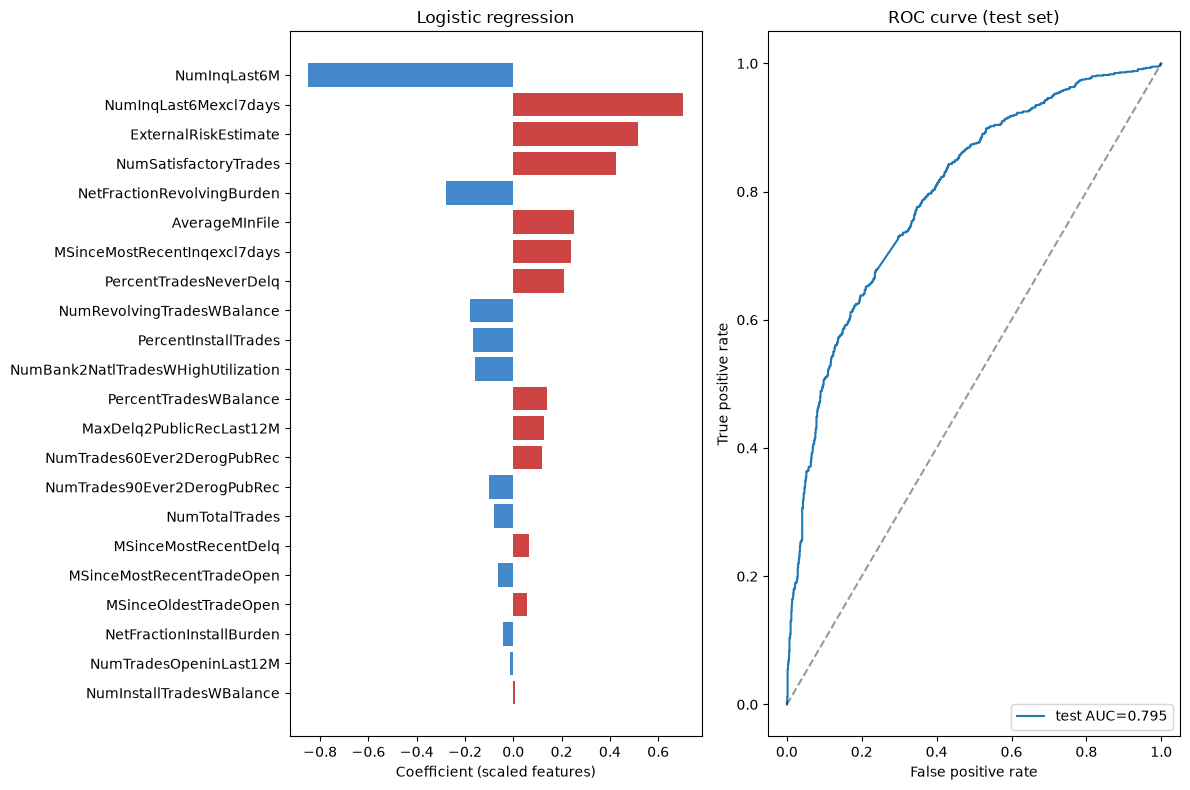
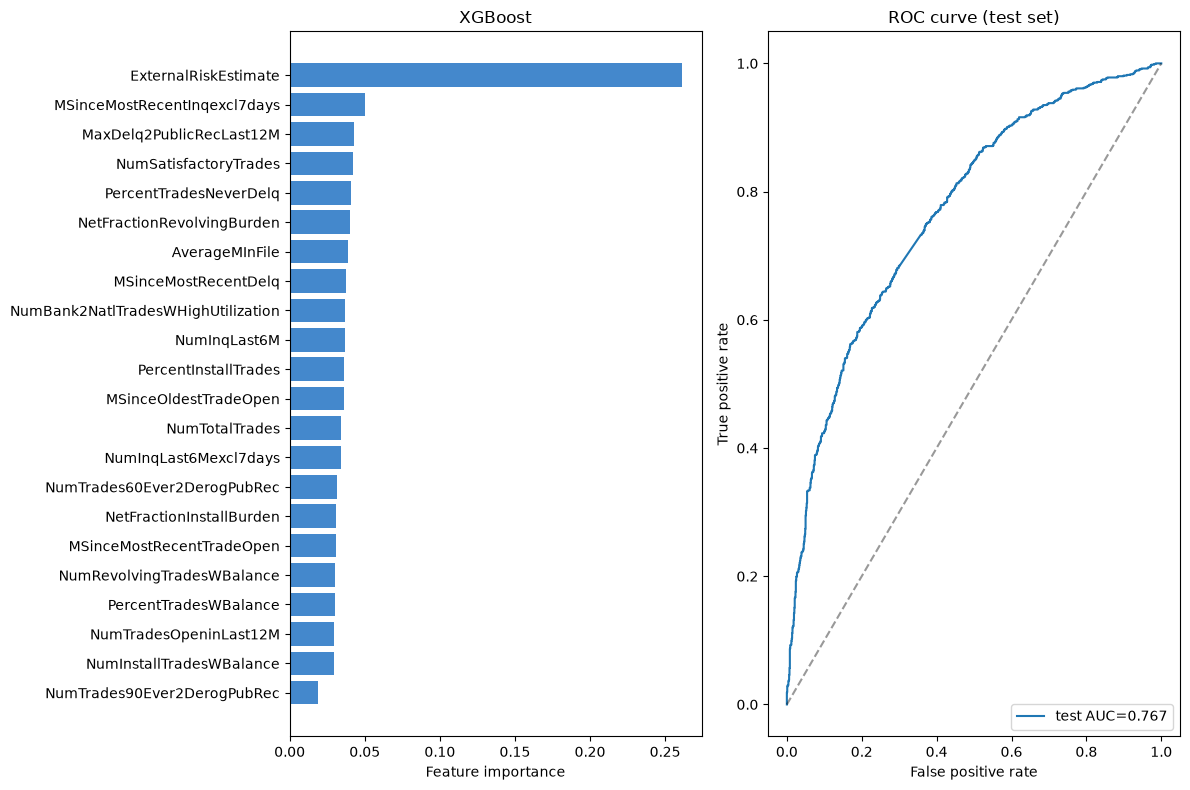
Serve probabilities by switching the tutorial model to XGBoost
The prebuilt sklearn container calls .predict(), which returns 0/1 labels
for a classifier, so Sampled Shapley attributed a label instead of a
probability. The prebuilt xgboost-cpu.2-1 container serves Booster.predict(),
which returns the probability for binary:logistic.

- train(): fit XGBClassifier, save model.bst
- explain(): use xgboost-cpu.2-1 and a new model name
- document that RiskPerformance 1 = good credit in instances.csv
- README: Step 2/4/5 text, new step4-roc.png

diff --git a/vertex-batch-explainability/batch_explain.py b/vertex-batch-explainability/batch_explain.py
@@ -9,14 +9,10 @@ import tempfile
 from math import isnan
 
 import google.auth
-import joblib
+import xgboost as xgb
 from google.cloud import aiplatform, bigquery, storage
-from sklearn.impute import SimpleImputer
-from sklearn.linear_model import LogisticRegression
 from sklearn.metrics import roc_auc_score
 from sklearn.model_selection import train_test_split
-from sklearn.pipeline import Pipeline
-from sklearn.preprocessing import StandardScaler
 
 # 22 credit-bureau features from the FICO HELOC dataset (OpenML 45023).
 FEATURES = [
@@ -43,11 +39,11 @@ FEATURES = [
     "NumBank2NatlTradesWHighUtilization",
     "PercentTradesWBalance",
 ]
-TARGET = "RiskPerformance"  # 1 = bad (90+ days past due), 0 = good
+TARGET = "RiskPerformance"  # 1 = good credit, 0 = bad (90+ days past due) in instances.csv
 # Blank cells in instances.csv; FICO raw data also uses -7/-8/-9 (see openml.org/d/45023).
 MISSING = {"", "-7", "-8", "-9"}
-CONTAINER = "us-docker.pkg.dev/vertex-ai/prediction/sklearn-cpu.1-6:latest"
-MODEL_NAME = "heloc-batch-explain"
+CONTAINER = "us-docker.pkg.dev/vertex-ai/prediction/xgboost-cpu.2-1:latest"
+MODEL_NAME = "heloc-batch-explain-xgb"
 DATASET = "ml_explainability"
 INPUT_TABLE = "heloc_batch_input"
 OUTPUT_TABLE = "heloc_batch_explanations"
@@ -97,18 +93,18 @@ def load(args) -> None:
 
 
 def train(args) -> None:
-    """Step 4 — fit logistic regression and upload model.joblib to GCS."""
+    """Step 4 — fit XGBoost (binary:logistic) and upload model.bst to GCS."""
     rows = read_csv(args.instances)
     X = [[parse_float(r[n]) for n in FEATURES] for r in rows]  # feature matrix
-    y = [int(r[TARGET].strip() == "1") for r in rows]  # 1 = bad, 0 = good
+    y = [int(r[TARGET].strip() == "1") for r in rows]  # 1 = good, 0 = bad
     X_train, X_test, y_train, y_test = train_test_split(
         X, y, test_size=0.2, random_state=42, stratify=y
     )
-    model = Pipeline([
-        ("imputer", SimpleImputer(strategy="median")),  # fill NaN from blank cells
-        ("scaler", StandardScaler()),
-        ("clf", LogisticRegression(max_iter=1000, class_weight="balanced")),
-    ]).fit(X_train, y_train)
+    # Vertex's xgboost container serves Booster.predict(), which returns P(y=1) for binary:logistic.
+    model = xgb.XGBClassifier(
+        objective="binary:logistic",  # NaN is handled natively, no imputer needed
+        scale_pos_weight=y_train.count(0) / y_train.count(1),  # balance classes
+    ).fit(X_train, y_train)
     y_score = model.predict_proba(X_test)[:, 1]
     test_auc = roc_auc_score(y_test, y_score)
     train_auc = roc_auc_score(y_train, model.predict_proba(X_train)[:, 1])
@@ -117,25 +113,25 @@ def train(args) -> None:
     bucket, uri = model_uri(args.bucket_uri)
     prefix = uri.removeprefix(f"gs://{bucket}/").rstrip("/")
     with tempfile.TemporaryDirectory() as tmp:
-        model_path = os.path.join(tmp, "model.joblib")
-        joblib.dump(model, model_path)
+        model_path = os.path.join(tmp, "model.bst")
+        model.get_booster().save_model(model_path)
         bkt = storage.Client().bucket(bucket)
-        bkt.blob(f"{prefix}/model.joblib").upload_from_filename(model_path)
+        bkt.blob(f"{prefix}/model.bst").upload_from_filename(model_path)
 
         import matplotlib
         matplotlib.use("Agg")
         import matplotlib.pyplot as plt
         from sklearn.metrics import roc_curve
 
-        coefs = model.named_steps["clf"].coef_[0]
-        order = sorted(range(len(FEATURES)), key=lambda i: abs(coefs[i]), reverse=True)
+        importances = model.feature_importances_
+        order = sorted(range(len(FEATURES)), key=lambda i: importances[i], reverse=True)
         names = [FEATURES[i] for i in order]
-        values = [coefs[i] for i in order]
+        values = [importances[i] for i in order]
 
         fig, (ax_coef, ax_roc) = plt.subplots(1, 2, figsize=(12, 8))
-        ax_coef.barh(names, values, color=["#c44" if v > 0 else "#48c" for v in values])
-        ax_coef.set_xlabel("Coefficient (scaled features)")
-        ax_coef.set_title("Logistic regression")
+        ax_coef.barh(names, values, color="#48c")
+        ax_coef.set_xlabel("Feature importance")
+        ax_coef.set_title("XGBoost")
         ax_coef.invert_yaxis()
 
         fpr, tpr, _ = roc_curve(y_test, y_score)
@@ -151,7 +147,7 @@ def train(args) -> None:
         fig.savefig(plot_path, dpi=100, bbox_inches="tight")
         plt.close(fig)
         bkt.blob(f"{prefix}/train_metrics.png").upload_from_filename(plot_path)
-    print(f"[train] uploaded {uri}model.joblib and train_metrics.png", flush=True)
+    print(f"[train] uploaded {uri}model.bst and train_metrics.png", flush=True)
 
 
 def explain(args) -> None:

diff --git a/vertex-batch-explainability/README.md b/vertex-batch-explainability/README.md
@@ -1,6 +1,6 @@
-# <img width="40" alt="image" src="docs/assets/gcp.png"> GCP ML Project: Explaining Loan Default Risk Predictions with Vertex AI, BigQuery and scikit-learn 🔍
+# <img width="40" alt="image" src="docs/assets/gcp.png"> GCP ML Project: Explaining Loan Default Risk Predictions with Vertex AI, BigQuery and XGBoost 🔍
 
-This GCP ML project focuses on **explaining loan default risk predictions** on Vertex AI. You train a scikit-learn classifier on FICO consumer credit data, register it on Vertex, and run one batch job that returns each borrower's predicted default probability plus per-feature attributions in BigQuery.
+This GCP ML project focuses on **explaining loan default risk predictions** on Vertex AI. You train an XGBoost classifier on FICO consumer credit data, register it on Vertex, and run one batch job that returns each borrower's predicted probability (of `RiskPerformance` = 1, good credit) plus per-feature attributions in BigQuery.
 
 - <img width="18" alt="image" src="docs/assets/gcs.png"> GCS is used to store the sample input data
 - <img width="18" alt="image" src="docs/assets/bigquery.png"> BigQuery holds the batch input rows and the explanation output table
@@ -23,11 +23,11 @@ Upload the provided CSV file to your designated Google Cloud Storage (GCS) bucke
 
 # <img width="30" alt="image" src="docs/assets/gcp.png"> Step 2 — Set up cloud shell
 
-Set the project and install scikit-learn and the Vertex AI SDK.
+Set the project and install XGBoost, scikit-learn and the Vertex AI SDK.
 
 👨💻 `gcloud config set project your-project-id`
 
-👨💻 `pip install google-cloud-aiplatform 'scikit-learn==1.6.*' matplotlib`
+👨💻 `pip install google-cloud-aiplatform 'scikit-learn==1.6.*' 'xgboost==2.1.*' matplotlib`
 
 ![Cloud shell install](docs/assets/step2-install.png)
 
@@ -49,19 +49,21 @@ You should see 10,000 rows from `instances.csv`.
 
 # <img width="30" alt="image" src="docs/assets/vertex-ai.png"> Step 4 — Train model
 
-The `train()` method in `batch_explain.py` fits a scikit-learn **logistic regression** on `instances.csv`. We predict `probability` — the chance the borrower ends up 90+ days past due (`RiskPerformance` = Bad).
+The `train()` method in `batch_explain.py` fits an **XGBoost** classifier (`binary:logistic`) on `instances.csv`. We predict `probability` — the chance that `RiskPerformance` = 1. In this CSV `1` is good credit (that group has the higher average `ExternalRiskEstimate`) and `0` is bad (90+ days past due), so a low probability means higher default risk.
 
-The `train` step fits the pipeline and uploads `model.joblib` and `train_metrics.png` to your bucket.
+We use XGBoost because Vertex's prebuilt XGBoost container serves `Booster.predict()`, which returns that probability. The prebuilt scikit-learn container calls `.predict()` instead, which returns a 0/1 class label for a classifier, so the explanations would attribute a label rather than a probability.
+
+The `train` step fits the model and uploads `model.bst` and `train_metrics.png` to your bucket.
 
 👨💻 `python batch_explain.py train --bucket-uri gs://your-bucket/vertex-batch-explain`
 
-Confirm `model.joblib` landed in `gs://your-bucket/vertex-batch-explain/models/`.
+Confirm `model.bst` landed in `gs://your-bucket/vertex-batch-explain/models/`.
 
-![model.joblib in GCS](docs/assets/step4-train.png)
+![model.bst in GCS](docs/assets/step4-train.png)
 
-Check the printed train/test ROC AUC in the terminal. The script also saves `train_metrics.png` to the same folder — logistic regression **coefficients** on the left (which features push risk up or down) and the test-set **ROC curve** on the right.
+Check the printed train/test ROC AUC in the terminal. The script also saves `train_metrics.png` to the same folder — XGBoost **feature importances** on the left (which features the model relies on most) and the test-set **ROC curve** on the right.
 
-![Logistic regression coefficients and ROC curve](docs/assets/step4-roc.png)
+![XGBoost feature importances and ROC curve](docs/assets/step4-roc.png)
 
 # <img width="30" alt="image" src="docs/assets/vertex-ai.png"> Step 5 — Run batch explanation job
 
@@ -71,9 +73,9 @@ The `explain` step registers your model on Vertex AI, then starts a batch job th
 
 ```python
 model = aiplatform.Model.upload(
-    display_name="heloc-batch-explain",  # name shown in the Vertex AI console
-    artifact_uri=uri,  # GCS path to model.joblib from Step 4
-    serving_container_image_uri="us-docker.pkg.dev/vertex-ai/prediction/sklearn-cpu.1-6:latest",
+    display_name="heloc-batch-explain-xgb",  # name shown in the Vertex AI console
+    artifact_uri=uri,  # GCS path to model.bst from Step 4
+    serving_container_image_uri="us-docker.pkg.dev/vertex-ai/prediction/xgboost-cpu.2-1:latest",
     explanation_parameters=aiplatform.explain.ExplanationParameters(
         {"sampled_shapley_attribution": {"path_count": 10}},  # Sampled Shapley: 10 permutations per row
     ),
@@ -84,7 +86,7 @@ model = aiplatform.Model.upload(
 )
 ```
 
-`Model.upload()` registers the model on Vertex AI — GCS artifact + sklearn serving container + explanation settings. Batch prediction sends each row as a fixed-order list (`[55, 144, 58, …]`), so `BAG_OF_FEATURES` and `index_feature_mapping` tell Vertex which index maps to which feature name in the attributions.
+`Model.upload()` registers the model on Vertex AI — GCS artifact + XGBoost serving container + explanation settings. Batch prediction sends each row as a fixed-order list (`[55, 144, 58, …]`), so `BAG_OF_FEATURES` and `index_feature_mapping` tell Vertex which index maps to which feature name in the attributions.
 
 See [ExplanationMetadata Encoding](https://docs.cloud.google.com/gemini-enterprise-agent-platform/reference/rest/v1/ExplanationSpec#Encoding).
 
